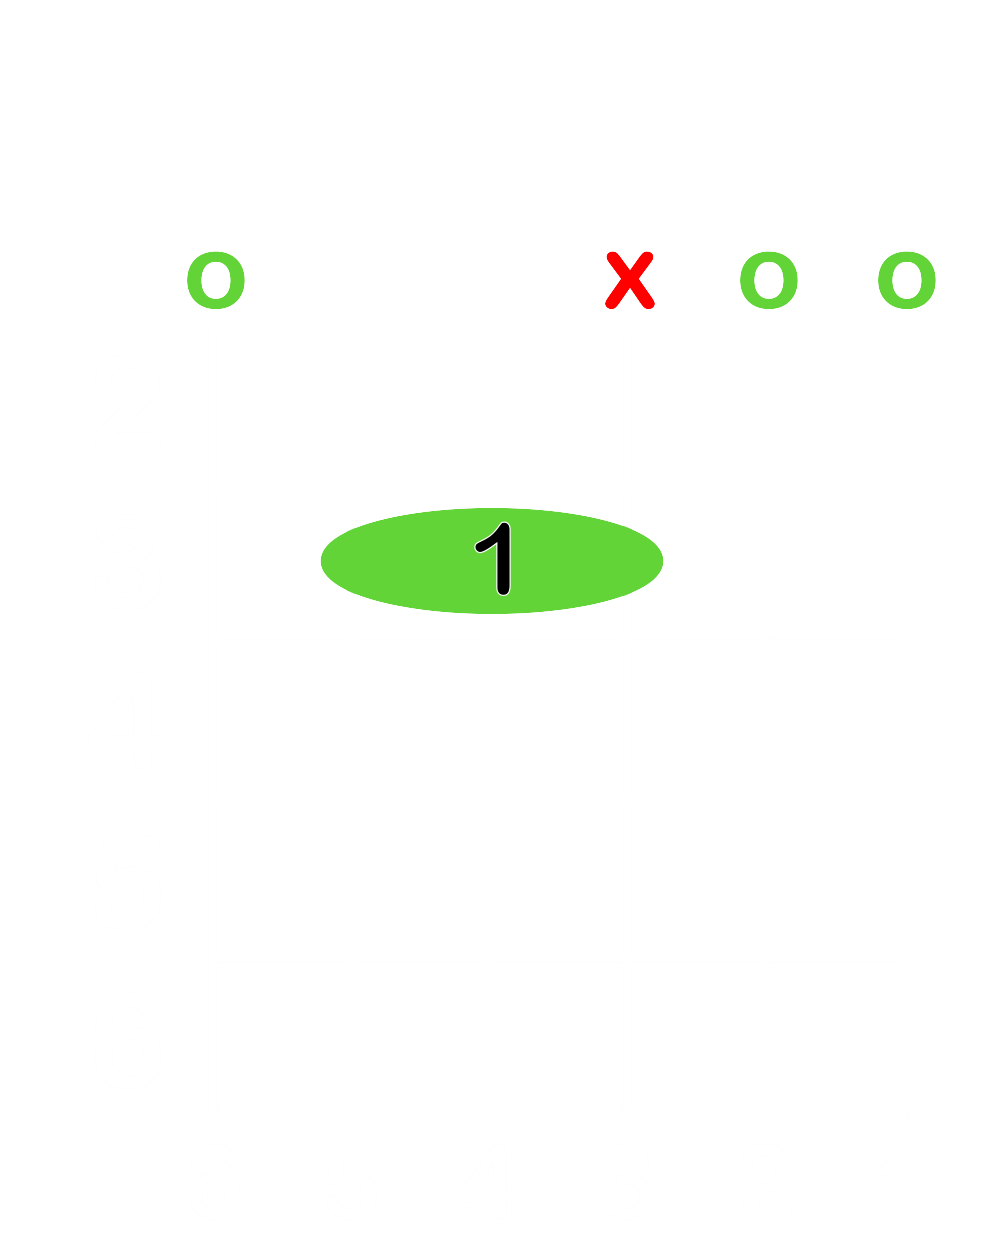
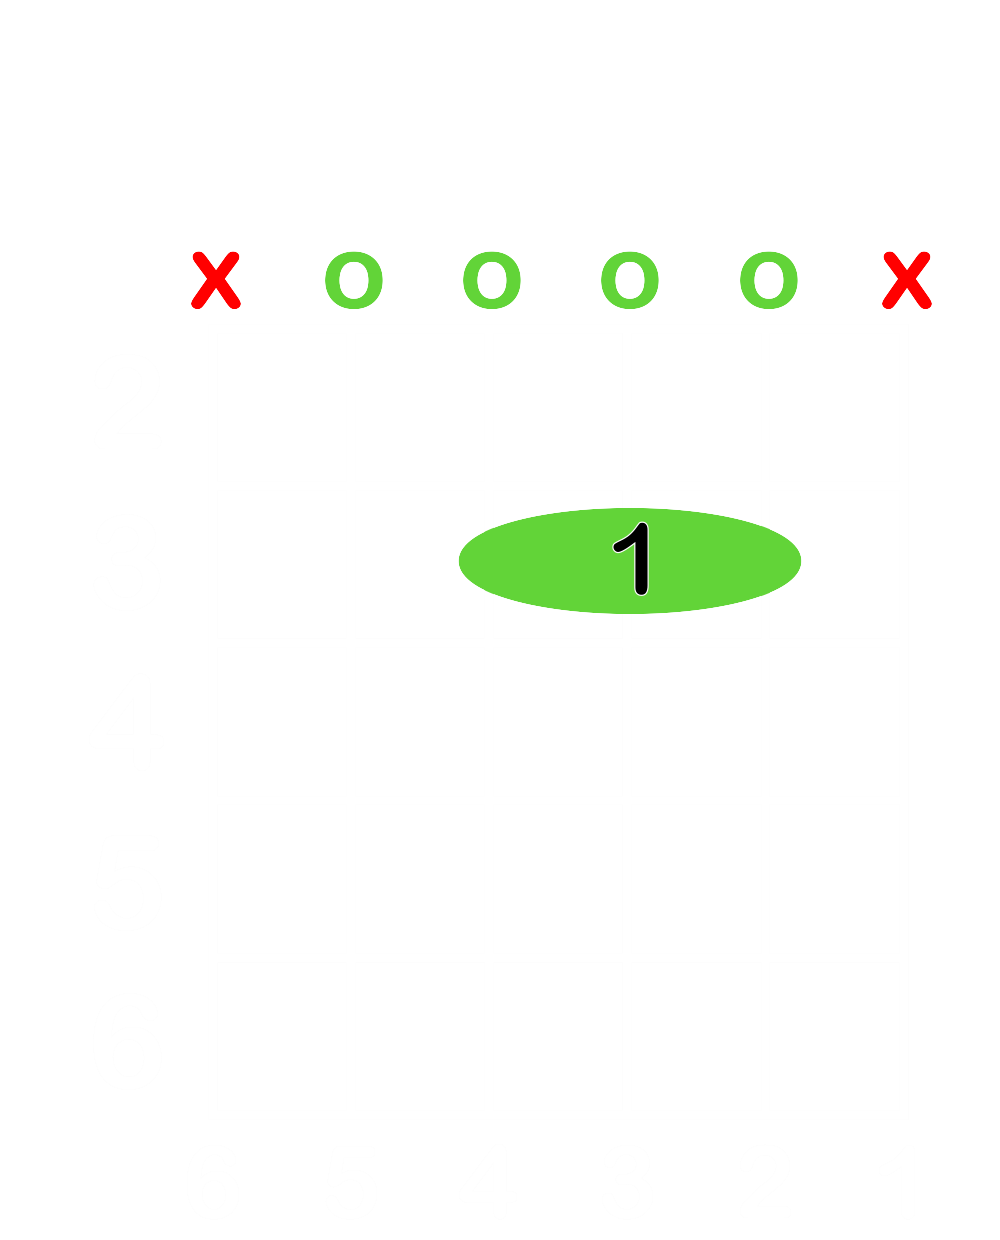
first version tablatures

diff --git a/Tablatures_paint.py b/Tablatures_paint.py
@@ -1,0 +1,68 @@
+from PIL import Image
+from Paint import Paint
+from Tablatures_class import Tablatures
+from Consts import *
+
+class TablaturesPaint(Paint):
+    def __init__(self, size=TABLATURES_ORIGINAL_SIZE,
+                 name_background_image=DEFAULT_NAME_TABLATURES_BACKGROUND_IMAGE,
+                 name_image=DEFAULT_NAME_TABLATURES_IMAGE, columns=None,
+                 tablatures_size=TABLATURES_SIZE, global_name="tablatures"):
+        super().__init__(size, name_background_image, name_image)
+        if columns is None:
+            columns = [Tablatures() for _ in range(DEFAULT_NUMBER_OF_COLUMNS)]
+        self.columns = columns
+        self.tablatures_size = tablatures_size
+        self.global_name = global_name
+
+    def clear_one_position_finale_image(self, position,
+                                        name_finale_image=DEFAULT_NAME_FINALE_TABLATURES_IMAGE,
+                                        change_default_tablature=False):
+        if self.columns[position[0]].tablatures[position[1]] == -2:
+            return
+        self.clear_rectangle_finale_image(self.coordinates_by_position(position),
+                                          self.tablatures_size, name_finale_image)
+        if change_default_tablature:
+            self.columns[position[0]].tablatures[position[1]] = -2
+
+    def clear_all_tablatures(self, name_finale_image=DEFAULT_NAME_FINALE_TABLATURES_IMAGE,
+                             change_default_tablature=False):
+        for i in range(len(self.columns)):
+            for j in range(len(self.columns[i].tablatures)):
+                self.clear_one_position_finale_image((i, j), name_finale_image,
+                                                     change_default_tablature)
+
+    def change_one_tablatures(self, position, name_finale_image=DEFAULT_NAME_FINALE_TABLATURES_IMAGE):
+        self.clear_rectangle_finale_image(self.coordinates_by_position(position),
+                                          self.tablatures_size, name_finale_image)
+        self.draw_a_picture_by_number(self.columns[position[0]].tablatures[position[1]],
+                                      self.coordinates_by_position(position),  self.tablatures_size,
+                                      name_finale_image)
+
+    def save(self, original_size=TABLATURES_ORIGINAL_SIZE):
+        name_tablatures = PATH_TABLATURES + self.global_name + ".png"
+        image = Image.new("RGBA", original_size, (255, 255, 255, 0))
+        image.save(name_tablatures)
+        image.close()
+        del image
+        for i in range(len(self.columns)):
+            for j in range(len(self.columns[i].tablatures)):
+                self.change_one_tablatures((i, j), name_tablatures)
+
+    def update_global_name_background_image(self):
+        self.global_name = self.name_image
+
+    def update_tablatures_position(self, position, new_tablature,
+                                   name_finale_image=DEFAULT_NAME_FINALE_TABLATURES_IMAGE):
+        self.columns[position[0]].tablatures[position[1]] = new_tablature
+        self.change_one_tablatures(position, name_finale_image)
+
+    def get_position_name(self, position):
+        return self.columns[position[0]].tablatures.name
+
+    def get_position_tablature(self, position):
+        return self.columns[position[0]].tablatures[position[1]]
+
+
+    def coordinates_by_position(self, position):
+        return (position[0] + 1) * DEFAULT_WIDTH_DISTANCE, (position[1] + 1) * DEFAULT_HEIGHT_DISTANCE

diff --git a/Paint.py b/Paint.py
@@ -1,4 +1,4 @@
-from PIL import Image, ImageDraw
+from PIL import Image, ImageDraw, ImageFont
 from Consts import *
 
 resampling = [Image.Resampling.NEAREST, Image.Resampling.BOX,
@@ -19,10 +19,11 @@ def clear_image(name_image, coordinate, size_part):
 
 class Paint:
     def __init__(self, size, name_background_image,
-                 name_image=DEFAULT_NAME_IMAGE):
+                 name_image=DEFAULT_NAME_IMAGE, font=BASE_FONT, font_size=TABLATURES_FONT_SIZE):
         self.size = size
         self.name_background_image = name_background_image
         self.name_image = name_image
+        self.font_small = ImageFont.truetype(font, font_size)
         self.quick_update_size()
 
     def clear_rectangle_background(self, coordinate, paste_size):
@@ -116,6 +117,21 @@ class Paint:
         with Image.open(name_paste_image) as paste_image:
             size = paste_image.size
         self.change_rectangle_finale_image(coordinate, size, name_paste_image, name_finale_image, change_background)
+
+    def draw_a_picture_by_number(self, number, coordinate, paste_image_size=TABLATURES_SIZE,
+                                 name_finale_image=DEFAULT_NAME_FINALE_IMAGE):
+        paste_image = Image.new("RGBA", paste_image_size, WHITE_TRANSPARENT)
+        draw = ImageDraw.Draw(paste_image)
+        text = '-'
+        match number:
+            case -2:
+                text = '-'
+            case -1:
+                text = 'x'
+            case int() as default if default <= 50:
+                text = str(number)
+        draw.text(coordinate, text, font=self.font_small, fill=(255, 255, 255, 255))
+        self.change_rectangle_finale_image_paste_image(coordinate, paste_image, name_finale_image)
 
     def quick_change_size(self, new_size):
         self.size = new_size

diff --git a/Consts.py b/Consts.py
@@ -23,7 +23,6 @@ KEY_WORDS = ('no', 'maj', 'sus', 'add')
 
 DISPLAY_SIZE = (238, 278)
 
-
 # for arrows
 MASSIVE_SIZE = 16
 
@@ -62,3 +61,17 @@ DEFAULT_NAME_FINALE_IMAGE="./src/finale image/default_finale.png"
 
 #for tablatures
 DEFAULT_NUMBER_OF_LINES = 6
+DEFAULT_NUMBER_OF_COLUMNS = 16
+TABLATURES_IMAGE_WIDTH = PICTURE_WIDTH
+TABLATURES_IMAGE_HEIGHT = PICTURE_HEIGHT
+TABLATURES_IMAGE_SIZE = PICTURE_SIZE
+TABLATURES_ORIGINAL_SIZE = ORIGINAL_SIZE
+DEFAULT_NAME_TABLATURES_BACKGROUND_IMAGE = "./src/backgrounds/background_tablatures.png"
+DEFAULT_NAME_TABLATURES_IMAGE = "./src/tmp/tablatures.png"
+DEFAULT_NAME_FINALE_TABLATURES_IMAGE = "./src/final_images/final_tablatures.png"
+DEFAULT_WIDTH_DISTANCE = 400
+DEFAULT_HEIGHT_DISTANCE = 150
+BASE_FONT = f"./src/{FONT_FILE}"
+TABLATURES_FONT_SIZE = 100
+TABLATURES_SIZE = (DEFAULT_WIDTH_DISTANCE, DEFAULT_HEIGHT_DISTANCE)
+PATH_TABLATURES = "./tablatures/"

diff --git a/Tablatures_class.py b/Tablatures_class.py
@@ -16,6 +16,13 @@ class Tablatures:
     def get_tablature(self, position):
         return self.tablatures[position]
 
-    def update_all_tablatures(self, new_tablatures):
+    def update_all_tablatures(self, new_tablatures=None):
+        if new_tablatures is None:
+            new_tablatures = [-2 for _ in range(len(self.tablatures))]
         self.tablatures = new_tablatures
 
+    def update_position_in_tablatures(self, position, new_tablature=-2):
+        self.tablatures[position] = new_tablature
+
+    def update_name(self, new_name):
+        self.name = new_name

diff --git a/parser.py b/parser.py
@@ -162,7 +162,7 @@ class GPXMLParser:
 
 # ─────────── CLI ───────────
 def main():
-    xml_file = "C:/Users/t480s/Downloads/forbidden_friendship.xml"
+    xml_file = "./forbidden_friendship.xml"
     GPXMLParser(xml_file).parse()
 
 if __name__ == "__main__":
